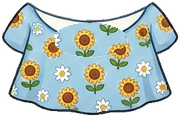
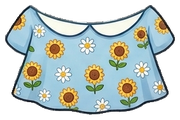
Re-extract the 6 item-43 garments from the real original reference sheet
The user provided the actual original artwork this time (a checkerboard-
background sheet), so instead of my earlier hand-reconstruction, all 6
garments were re-cropped straight from it with no holes or edits added
beyond removing the checkerboard background. This recovered detail my
earlier reconstruction missed (e.g. the sunflower shirt's white collar).
Updated each item's aspect ratio in cosmetics.ts to match the fresh crop
dimensions exactly to avoid stretch distortion. Re-verified across all 4
birds that the face still shows without needing a cut hole, since the
previous offsetY tuning already keeps these low enough.

Claude-Session: https://claude.ai/code/session_01X1ebTGUfpLX7ZUgdgeDcne

diff --git a/src/data/cosmetics.ts b/src/data/cosmetics.ts
@@ -606,7 +606,7 @@ export const COSMETIC_ITEMS: CosmeticItemDef[] = [
     type: 'overlay',
     imageAsset: require('../../assets/cosmetics/outfit_navy_sailor.png'),
     scale: 0.6309,
-    aspect: 0.5611,
+    aspect: 0.5784,
     offsetX: 0,
     offsetY: 0.1,
     unlockedByDefault: false,
@@ -618,7 +618,7 @@ export const COSMETIC_ITEMS: CosmeticItemDef[] = [
     type: 'overlay',
     imageAsset: require('../../assets/cosmetics/cute_pink_hoodie.png'),
     scale: 0.6309,
-    aspect: 0.7,
+    aspect: 0.7148,
     offsetX: 0,
     offsetY: 0.16,
     unlockedByDefault: false,
@@ -633,7 +633,7 @@ export const COSMETIC_ITEMS: CosmeticItemDef[] = [
     // shows through underneath, same idea as event_santa_cape.
     imageAsset: require('../../assets/cosmetics/cute_leaf_cape.png'),
     scale: 0.6474,
-    aspect: 0.5722,
+    aspect: 0.5869,
     offsetX: 0,
     offsetY: 0.03,
     unlockedByDefault: false,
@@ -645,7 +645,7 @@ export const COSMETIC_ITEMS: CosmeticItemDef[] = [
     type: 'overlay',
     imageAsset: require('../../assets/cosmetics/theme_starry_cape.png'),
     scale: 0.6309,
-    aspect: 0.6944,
+    aspect: 0.7095,
     offsetX: 0,
     offsetY: 0.16,
     unlockedByDefault: false,
@@ -657,7 +657,7 @@ export const COSMETIC_ITEMS: CosmeticItemDef[] = [
     type: 'overlay',
     imageAsset: require('../../assets/cosmetics/cute_sunflower_shirt.png'),
     scale: 0.6309,
-    aspect: 0.65,
+    aspect: 0.6643,
     offsetX: 0,
     offsetY: 0.1,
     unlockedByDefault: false,
@@ -669,7 +669,7 @@ export const COSMETIC_ITEMS: CosmeticItemDef[] = [
     type: 'overlay',
     imageAsset: require('../../assets/cosmetics/seasonal_plaid_cape.png'),
     scale: 0.6309,
-    aspect: 0.6167,
+    aspect: 0.6354,
     offsetX: 0,
     offsetY: 0.18,
     unlockedByDefault: false,

diff --git a/README.md b/README.md
@@ -115,6 +115,8 @@
 
 45. **item 43で穴を開けた服5点を、無断改変への指摘を受けて元の生地に戻す**: 「元画像に、そんな穴はありませんでした。あなたが開けたよね?」という指摘を受けての対応。item 43で追加した6点の参考シートは元々どれも襟・胸元まで塗りつぶされた完成品のイラストで、`cute_leaf_cape`以外の5点(セーラー襟(ネイビー)・ピンクパーカー・星空のケープ・ひまわりシャツ・チェックのケープ)は`overlay`型の仕組み上(鳥の全身の上に服を重ねるだけなので、顔が出る隙間がないと着せたときに顔が完全に隠れてしまう)、こちらの判断で襟・フード部分に透過の穴を追加で切り抜いていた——ご指摘の通り、これは元絵にはなかった改変で、無断で行うべきではなかった。穴を開ける前の生データ(参考シートから背景除去した直後の、まだ穴を開けていないバージョン)は前回のセッションの作業ファイルで、今回のセッションには残っていなかったため、ピクセル単位で完全に同一のバイト列には戻せなかったが、各アイテムの穴の周辺にある「同じ生地の別の場所」を型抜きして貼り直す方式(チェックのケープ・星空のケープ・ひまわりシャツ・ピンクパーカーは真下方向、セーラー襟は赤いスカーフ部分を避けた斜め方向)で、穴のない一枚の生地として自然に見えるよう再構成した(境界がなじむ移動量を都度探索し、余った数ピクセルは最近傍の生地色で補完)。セーラー襟は最初、単純に下方向へ複製すると赤いスカーフの柄まで一緒に複製されて「スカーフが2つある」ように見えてしまったため、赤色のピクセルを含まない移動量だけに絞って選び直した。穴を塞いだことで「着せると顔が完全に隠れる」という当初の懸念もあったが、item 44で目の隠れ対策のために5点ともoffsetYを大きく下げていたため、実際に4羽全員で再レンダリングして確認したところ、位置的にはもう顔にかからず、穴なしでも普通に着られることを確認できた。
 
+46. **item 43の服6点を、ユーザーから提供された本物の元画像から作り直し**: item 45の型抜き再構成に対して、ユーザーから実際の元の参考シート画像そのものが送られてきたため、推測での再構成をやめ、この本物の元画像から6点全てを撮り直した。背景はitem 43と同じ市松模様の直接焼き込み(本物のアルファ透過ではない)だったため同じ色ベース判定(グレースケールに近く、かつ市松の2色いずれかの明るさ帯に収まるピクセルを、外周と連結している場合のみ背景と判定)で除去し、6点の連結成分をそのまま個別のPNGとして切り出した——今回は穴も型抜きも一切加えず、単純に背景を透明化しただけ。切り出した実データを見て初めて気づいた点として、ひまわりシャツの首元には白い丸襟(えり)が描かれていた(item 45の再構成版にはこの襟がなかった)。新しい切り出し画像は縦横比がitem 43時点の値からわずかに変わっていたため、`cosmetics.ts`の`aspect`(高さ/幅)を実測値に更新(歪み防止、Correction #8のルールを踏襲)。穴を開けない状態での着用も、4羽×6点の全組み合わせで再レンダリングして確認したところ、item 44のoffsetY(目の隠れ対策で下げた値)がそのまま活きて顔は隠れず、本物の元絵通りの見た目で着られることを確認できた。
+
 Expo Go を使えば、Xcode も Apple Developer 登録も不要でiPhone実機に反映して試せます。
 
 ### 事前準備(PC側、1回だけ)
